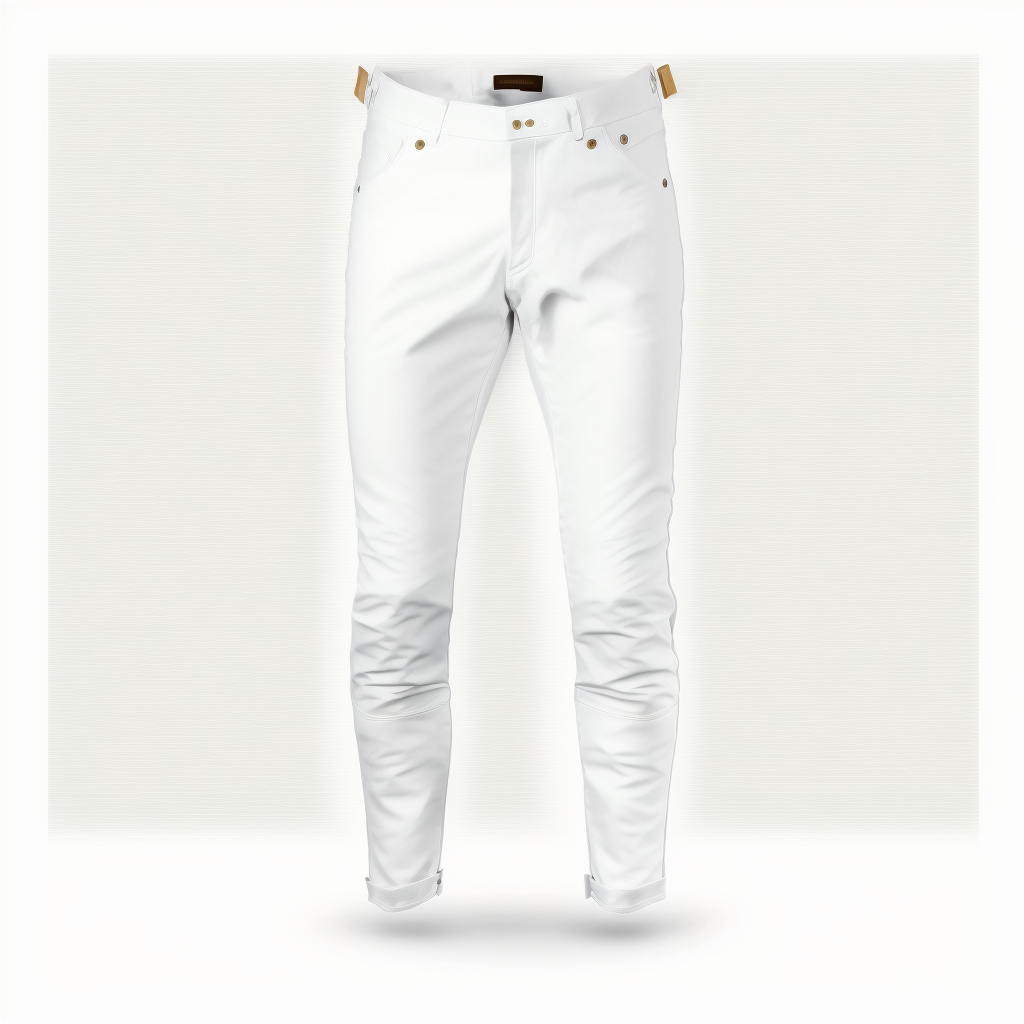
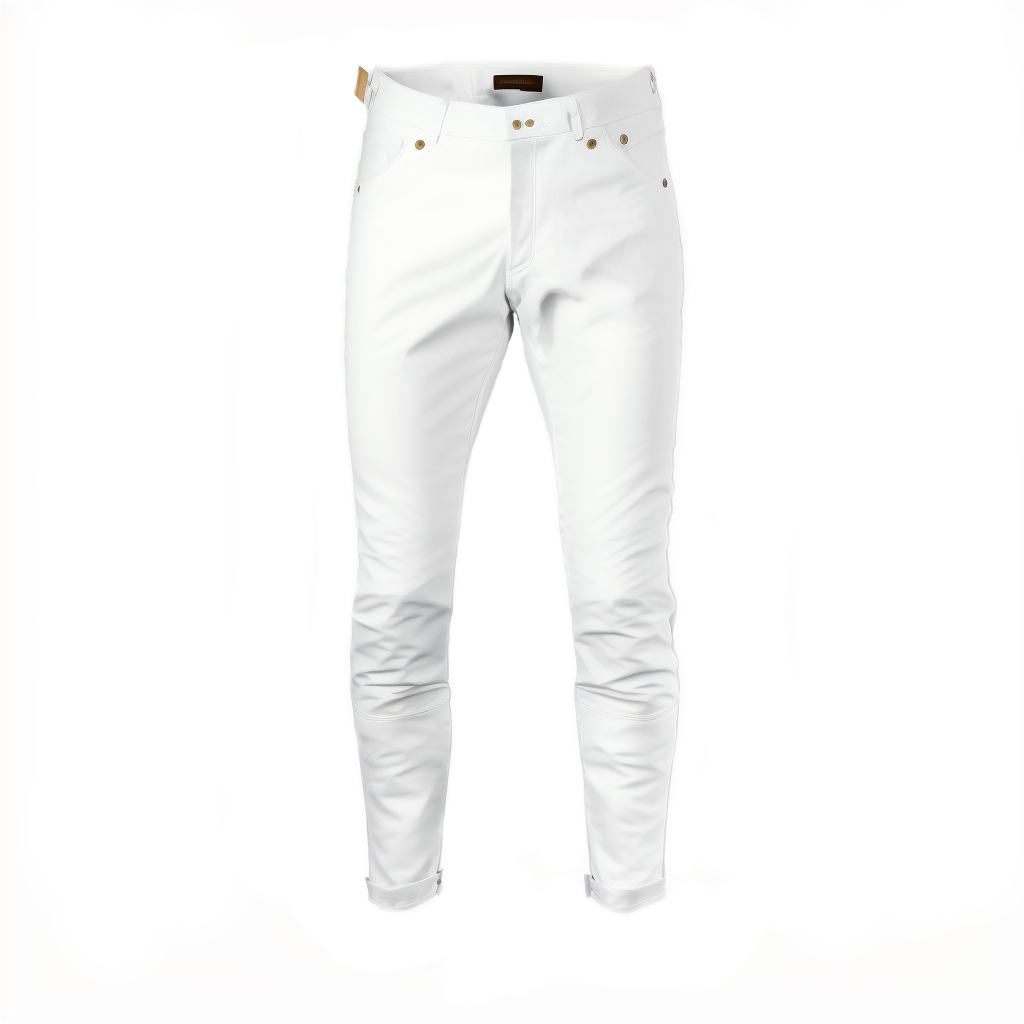
edit image pant 1

diff --git a/index.html b/index.html
@@ -77,16 +77,16 @@
                 <!-- <img src="https://kaiodeodato.github.io/API_AI_STORE/Images/Shoes/Classic/classic_2.png"> -->
             </div>
             <p>Usage tip</p>
-            <p class="box_text">Some images in the database may present small variations in the tonality of the bg, some more for light beige or light gray, to fix this we recommend using a filter, as described below, to make the bg of your photos more homogeneous</p>
+            <p class="box_text">Some images in the database may present small variations in the tonality of the bg, some more for light beige or light gray, to fix this we recommend using a filter, as described below, to make the bg of your photos more homogeneous. <br> *we did that in the examples above :)</p>
             <p class="box_text color_light">
-                <style>
-                    .picturesExemple img{
-                        filter: 
-                        brightness(1.1)
-                        contrast(1.1)
-                        ;
+                (style sheet) <br>
+                    .className img{ <br>
+                        filter:  <br>
+                        brightness(1.1) <br>
+                        contrast(1.1) <br>
+                        ; <br>
                     }
-                </style>
+                
                 
             </p>
 
